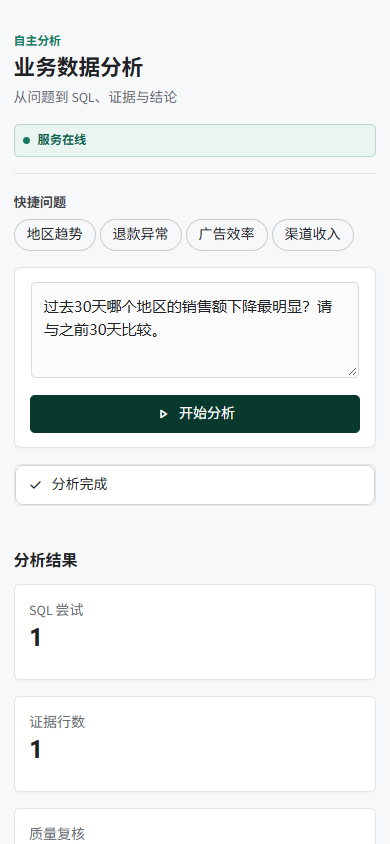
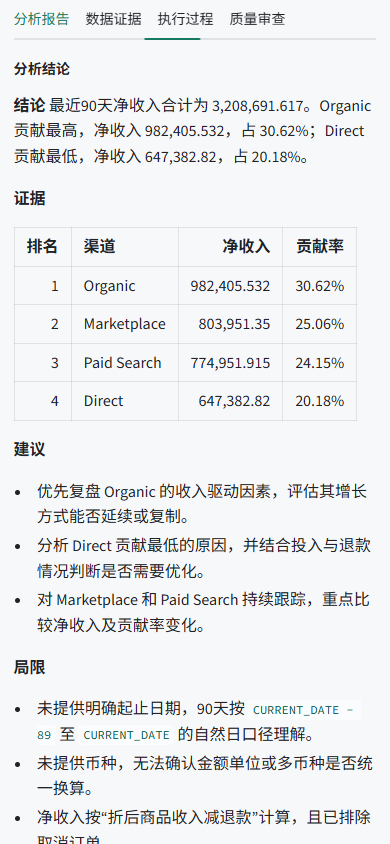
feat: add agent performance observability

diff --git a/ui/streamlit_app.py b/ui/streamlit_app.py
@@ -168,7 +168,14 @@ st.markdown(
     }
     .ia-trace-row.retry::before { background: var(--amber); }
     .ia-trace-row.failed::before { background: var(--red); }
-    .ia-trace-node { color: var(--ink); font-size: 0.82rem; font-weight: 720; }
+    .ia-trace-node {
+        display: flex; align-items: center; justify-content: space-between; gap: 0.5rem;
+        color: var(--ink); font-size: 0.82rem; font-weight: 720;
+    }
+    .ia-trace-duration {
+        color: #777c82; background: #eceeef; border-radius: 4px;
+        padding: 0.12rem 0.32rem; font-family: monospace; font-size: 0.68rem; font-weight: 650;
+    }
     .ia-trace-detail { color: var(--muted); font-size: 0.8rem; line-height: 1.45; }
 
     .ia-review-banner {
@@ -237,7 +244,13 @@ def render_chart(rows: list[dict[str, Any]], spec: dict[str, Any] | None) -> Non
     st.plotly_chart(figure, width="stretch", config={"displayModeBar": False})
 
 
-def render_trace(trace: list[dict[str, str]]) -> None:
+def format_duration(duration_ms: float) -> str:
+    if duration_ms < 1000:
+        return f"{duration_ms:.0f} ms"
+    return f"{duration_ms / 1000:.1f} s"
+
+
+def render_trace(trace: list[dict[str, Any]]) -> None:
     if not trace:
         st.info("本次运行没有执行轨迹。")
         return
@@ -246,9 +259,11 @@ def render_trace(trace: list[dict[str, str]]) -> None:
         status = event.get("status", "ok")
         css_status = status if status in {"retry", "failed"} else "ok"
         node = NODE_LABELS.get(event.get("node", ""), event.get("node", "未知节点"))
+        duration = format_duration(float(event.get("duration_ms", 0) or 0))
         rows.append(
             f'<div class="ia-trace-row {css_status}">'
-            f'<div class="ia-trace-node">{html.escape(node)}</div>'
+            f'<div class="ia-trace-node"><span>{html.escape(node)}</span>'
+            f'<span class="ia-trace-duration">{duration}</span></div>'
             f'<div class="ia-trace-detail">{html.escape(event.get("detail", ""))}</div></div>'
         )
     st.markdown(f'<div class="ia-timeline">{"".join(rows)}</div>', unsafe_allow_html=True)
@@ -407,11 +422,14 @@ else:
         f'<div class="ia-request-id">{html.escape(request_id)}</div></div>',
         unsafe_allow_html=True,
     )
-    metric_columns = st.columns(4)
+    metric_columns = st.columns(5)
     metric_columns[0].metric("SQL 尝试", result.get("attempts", 0))
     metric_columns[1].metric("证据行数", len(rows))
     metric_columns[2].metric("质量复核", "通过" if approved else "需复核")
     metric_columns[3].metric("置信度", f"{confidence:.0%}")
+    metric_columns[4].metric(
+        "端到端耗时", format_duration(float(result.get("total_duration_ms", 0) or 0))
+    )
 
     report_tab, evidence_tab, trace_tab, review_tab = st.tabs(
         ["分析报告", "数据证据", "执行过程", "质量审查"]
@@ -465,7 +483,16 @@ else:
                 st.caption(" · ".join(metrics))
         with timeline_column:
             st.markdown('<div class="ia-section-title">执行轨迹</div>', unsafe_allow_html=True)
-            render_trace(result.get("trace", []))
+            trace = result.get("trace", [])
+            render_trace(trace)
+            timed_events = [event for event in trace if event.get("duration_ms") is not None]
+            if timed_events:
+                slowest = max(timed_events, key=lambda event: float(event.get("duration_ms", 0)))
+                slowest_label = NODE_LABELS.get(slowest.get("node", ""), slowest.get("node", "未知节点"))
+                st.caption(
+                    f"最耗时节点：{slowest_label} · "
+                    f"{format_duration(float(slowest.get('duration_ms', 0) or 0))}"
+                )
 
     with review_tab:
         banner_class = "" if approved else " rejected"

diff --git a/app/agent/nodes.py b/app/agent/nodes.py
@@ -1,4 +1,6 @@
 import json
+from functools import wraps
+from time import perf_counter
 from typing import Any
 
 from langchain_core.messages import HumanMessage, SystemMessage
@@ -36,8 +38,27 @@ def _llm() -> ChatOpenAI:
     )
 
 
-def _trace(node: str, status: str, detail: str) -> list[dict[str, str]]:
+def _trace(node: str, status: str, detail: str) -> list[dict[str, Any]]:
     return [{"node": node, "status": status, "detail": detail}]
+
+
+def _timed_node(node: str):
+    """Attach wall-clock duration to every completed graph node event."""
+
+    def decorate(function):
+        @wraps(function)
+        def wrapped(state: AgentState) -> dict[str, Any]:
+            started_at = perf_counter()
+            result = function(state)
+            duration_ms = round((perf_counter() - started_at) * 1000, 2)
+            for event in result.get("trace", []):
+                event.setdefault("node", node)
+                event.setdefault("duration_ms", duration_ms)
+            return result
+
+        return wrapped
+
+    return decorate
 
 
 def _message_text(message: Any) -> str:
@@ -56,6 +77,7 @@ def _message_text(message: Any) -> str:
     return str(content)
 
 
+@_timed_node("planner")
 def plan_node(state: AgentState) -> dict[str, Any]:
     planner = _llm().with_structured_output(PlanOutput)
     output = planner.invoke(
@@ -78,6 +100,7 @@ def plan_node(state: AgentState) -> dict[str, Any]:
     }
 
 
+@_timed_node("schema")
 def schema_node(_: AgentState) -> dict[str, Any]:
     schema = get_business_schema()
     return {
@@ -86,6 +109,7 @@ def schema_node(_: AgentState) -> dict[str, Any]:
     }
 
 
+@_timed_node("sql_generator")
 def sql_generation_node(state: AgentState) -> dict[str, Any]:
     generator = _llm().with_structured_output(SqlOutput)
     previous_error = state.get("error") or "none"
@@ -123,6 +147,7 @@ def sql_generation_node(state: AgentState) -> dict[str, Any]:
     }
 
 
+@_timed_node("sql_guard")
 def validate_sql_node(state: AgentState) -> dict[str, Any]:
     settings = get_settings()
     try:
@@ -139,6 +164,7 @@ def validate_sql_node(state: AgentState) -> dict[str, Any]:
     }
 
 
+@_timed_node("executor")
 def execute_sql_node(state: AgentState) -> dict[str, Any]:
     try:
         columns, rows = execute_read_only(state["sql"])
@@ -163,6 +189,7 @@ def execute_sql_node(state: AgentState) -> dict[str, Any]:
     }
 
 
+@_timed_node("analyst")
 def analysis_node(state: AgentState) -> dict[str, Any]:
     analyst = _llm().with_structured_output(AnalysisOutput)
     evidence = {
@@ -195,6 +222,7 @@ def analysis_node(state: AgentState) -> dict[str, Any]:
     }
 
 
+@_timed_node("reviewer")
 def review_node(state: AgentState) -> dict[str, Any]:
     reviewer = _llm().with_structured_output(ReviewOutput)
     review_payload = {
@@ -227,6 +255,7 @@ def review_node(state: AgentState) -> dict[str, Any]:
     }
 
 
+@_timed_node("reporter")
 def report_node(state: AgentState) -> dict[str, Any]:
     analysis = state["analysis"]
     review = state.get("review", {})
@@ -253,6 +282,7 @@ def report_node(state: AgentState) -> dict[str, Any]:
     }
 
 
+@_timed_node("failure")
 def failure_node(state: AgentState) -> dict[str, Any]:
     error = state.get("error") or "The agent could not complete the analysis."
     return {

diff --git a/scripts/run_evals.py b/scripts/run_evals.py
@@ -10,6 +10,18 @@ API_BASE_URL = os.getenv("API_BASE_URL", "http://localhost:8000").rstrip("/")
 QUESTIONS_PATH = Path(__file__).parents[1] / "evals" / "questions.json"
 
 
+def collect_node_durations(trace: list[dict]) -> dict[str, float]:
+    """Sum repeated node attempts so repair loops remain visible in evaluation output."""
+    durations: dict[str, float] = {}
+    for event in trace:
+        node = event.get("node")
+        duration_ms = event.get("duration_ms")
+        if not isinstance(node, str) or not isinstance(duration_ms, (int, float)):
+            continue
+        durations[node] = round(durations.get(node, 0) + float(duration_ms), 2)
+    return durations
+
+
 def main() -> None:
     questions = json.loads(QUESTIONS_PATH.read_text(encoding="utf-8"))
     results = []
@@ -43,6 +55,8 @@ def main() -> None:
                 "review_approved": payload.get("review", {}).get("approved", False),
                 "expected_term_recall": len(terms_found) / len(case["expected_terms"]),
                 "attempts": payload.get("attempts"),
+                "agent_duration_seconds": round(payload.get("total_duration_ms", 0) / 1000, 2),
+                "node_duration_ms": collect_node_durations(payload.get("trace", [])),
                 "error": request_error,
             }
         )
@@ -52,6 +66,10 @@ def main() -> None:
     output_dir.mkdir(exist_ok=True)
     successful = [result for result in results if result["status_code"] == 200]
     latencies = [result["latency_seconds"] for result in results]
+    node_samples: dict[str, list[float]] = {}
+    for result in successful:
+        for node, duration_ms in result["node_duration_ms"].items():
+            node_samples.setdefault(node, []).append(duration_ms)
     summary = {
         "total_cases": len(results),
         "http_success_rate": len(successful) / len(results),
@@ -61,6 +79,10 @@ def main() -> None:
         ),
         "median_latency_seconds": round(statistics.median(latencies), 2),
         "max_latency_seconds": round(max(latencies), 2),
+        "mean_node_duration_ms": {
+            node: round(statistics.fmean(samples), 2)
+            for node, samples in sorted(node_samples.items())
+        },
     }
     output_path = output_dir / "eval-results.json"
     output_path.write_text(

diff --git a/app/api/routes.py b/app/api/routes.py
@@ -1,4 +1,5 @@
 import logging
+from time import perf_counter
 from uuid import uuid4
 
 from fastapi import APIRouter, HTTPException
@@ -48,6 +49,7 @@ async def analyze(payload: AnalyzeRequest) -> AnalyzeResponse:
         )
 
     request_id = str(uuid4())
+    started_at = perf_counter()
     try:
         state = await run_in_threadpool(run_agent, payload.question, request_id)
     except Exception as exc:
@@ -59,6 +61,14 @@ async def analyze(payload: AnalyzeRequest) -> AnalyzeResponse:
                 "and API billing, then retry."
             ),
         ) from exc
+
+    total_duration_ms = round((perf_counter() - started_at) * 1000, 2)
+    logger.info(
+        "Agent execution completed request_id=%s duration_ms=%.2f attempts=%s",
+        request_id,
+        total_duration_ms,
+        state.get("attempts", 0),
+    )
 
     return AnalyzeResponse(
         request_id=request_id,
@@ -73,6 +83,7 @@ async def analyze(payload: AnalyzeRequest) -> AnalyzeResponse:
         review=state.get("review", {}),
         trace=state.get("trace", []),
         attempts=state.get("attempts", 0),
+        total_duration_ms=total_duration_ms,
         error=state.get("error"),
     )
 

diff --git a/app/api/schemas.py b/app/api/schemas.py
@@ -7,6 +7,13 @@ class AnalyzeRequest(BaseModel):
     question: str = Field(min_length=5, max_length=1000)
 
 
+class TraceEvent(BaseModel):
+    node: str
+    status: str
+    detail: str
+    duration_ms: float = Field(default=0, ge=0)
+
+
 class AnalyzeResponse(BaseModel):
     request_id: str
     question: str
@@ -18,8 +25,9 @@ class AnalyzeResponse(BaseModel):
     rows: list[dict[str, Any]] = Field(default_factory=list)
     analysis: dict[str, Any] = Field(default_factory=dict)
     review: dict[str, Any] = Field(default_factory=dict)
-    trace: list[dict[str, str]] = Field(default_factory=list)
+    trace: list[TraceEvent] = Field(default_factory=list)
     attempts: int = 0
+    total_duration_ms: float = Field(default=0, ge=0)
     error: str | None = None
 
 

diff --git a/tests/test_nodes.py b/tests/test_nodes.py
@@ -10,6 +10,7 @@ def test_empty_query_results_request_sql_repair() -> None:
     assert result["rows"] == []
     assert "no evidence rows" in result["error"]
     assert result["trace"][0]["status"] == "retry"
+    assert result["trace"][0]["duration_ms"] >= 0
 
 
 def test_non_empty_query_results_continue() -> None:
@@ -20,3 +21,4 @@ def test_non_empty_query_results_continue() -> None:
     assert result["rows"] == rows
     assert result["error"] is None
     assert result["trace"][0]["status"] == "ok"
+    assert result["trace"][0]["duration_ms"] >= 0

diff --git a/tests/test_evals.py b/tests/test_evals.py
@@ -1,0 +1,16 @@
+from scripts.run_evals import collect_node_durations
+
+
+def test_collect_node_durations_sums_retries_and_ignores_invalid_events() -> None:
+    trace = [
+        {"node": "sql_generator", "duration_ms": 120.25},
+        {"node": "sql_guard", "duration_ms": 1.5},
+        {"node": "sql_generator", "duration_ms": 80.25},
+        {"node": "reviewer"},
+        {"duration_ms": 5},
+    ]
+
+    assert collect_node_durations(trace) == {
+        "sql_generator": 200.5,
+        "sql_guard": 1.5,
+    }

diff --git a/app/agent/state.py b/app/agent/state.py
@@ -6,6 +6,7 @@ class TraceEvent(TypedDict):
     node: str
     status: str
     detail: str
+    duration_ms: float
 
 
 class AgentState(TypedDict, total=False):

diff --git a/README.md b/README.md
@@ -36,8 +36,8 @@ The OpenAI integration follows the official [OpenAI API quickstart](https://plat
 - PostgreSQL read-only transactions, statement timeouts, and row limits
 - Deterministic ecommerce dataset with several planted business anomalies
 - FastAPI backend and Streamlit operations interface
-- Execution trace, generated SQL, raw evidence, reviewer confidence, and charts
-- Starter evaluation set with latency, completion, review, and keyword-recall metrics
+- Execution trace with per-node latency, end-to-end timing, generated SQL, raw evidence, reviewer confidence, and charts
+- Starter evaluation set with completion, review, keyword recall, end-to-end latency, and per-node latency metrics
 
 ## Quick start
 
@@ -107,7 +107,7 @@ Run the starter end-to-end evaluation after the stack is healthy:
 docker compose exec api python scripts/run_evals.py
 ```
 
-Evaluation output is written to `artifacts/eval-results.json`. Expand the dataset with expected SQL result signatures before presenting benchmark numbers in an interview.
+Evaluation output is written to `artifacts/eval-results.json`, including per-case node timings and aggregate mean node latency. Expand the dataset with expected SQL result signatures before presenting benchmark numbers in an interview.
 
 ### Latest local baseline
 
@@ -144,4 +144,5 @@ tests/           Unit tests
 - Why SQL security must be enforced at AST, transaction, and database-role layers
 - How reviewer feedback is routed into a bounded repair loop
 - How to measure task completion, SQL accuracy, tool success, latency, and cost
+- How per-node timing separates model latency from deterministic SQL and database work
 - How planted anomalies make the demo repeatable without hard-coding conclusions
